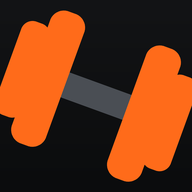
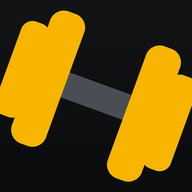
Beenden-Fix, aktiver Plan auf Start, Pläne-Detailansicht, Gold-Akzent
- Workout beenden/verwerfen funktioniert jetzt überall: native confirm()-Dialoge
  werden in Sandbox-iframes still blockiert und sind durch einen eigenen
  In-App-Bestätigungsdialog (appConfirm) ersetzt – betrifft Beenden, Verwerfen,
  Löschen von Plänen/Übungen/Workouts, Import und Daten-Reset
- Start-Tab zeigt nur noch den aktiven Plan plus 'Leeres Workout starten';
  bei mehreren Plänen gibt es einen Plan-Wechsler
- Pläne-Tab ist jetzt eine kompakte Liste; ein Tipp öffnet die Detailansicht
  mit allen Trainings (starten, bearbeiten, als aktiv setzen)
- Akzentfarbe von Safety-Orange auf Caution-Gold gewechselt, Icons neu generiert
- Service-Worker-Cache auf v3

Claude-Session: https://claude.ai/code/session_01BAzvXC5mM4khbWr549xUPR

diff --git a/js/app.js b/js/app.js
@@ -102,6 +102,7 @@ function defaultDB() {
     customExercises: [],
     plans: [],
     workouts: [],
+    activePlanId: null,
     seeded: false,
   };
 }
@@ -160,6 +161,10 @@ const exType = (id) => exById(id) ? exById(id).type : "weight_reps";
 
 // Sortierte Workouts (neueste zuerst)
 const workoutsDesc = () => DB.workouts.slice().sort((a, b) => b.startedAt - a.startedAt);
+
+// Der Plan, nach dem aktuell trainiert wird
+const activePlan = () =>
+  DB.plans.find((p) => p.id === DB.activePlanId) || DB.plans[0] || null;
 
 // Sätze des letzten Workouts mit dieser Übung
 function prevSetsFor(exId, excludeId) {
@@ -229,6 +234,33 @@ function toast(msg) {
   toastTimer = setTimeout(() => el.remove(), 2200);
 }
 
+/* ═══════════════ In-App-Bestätigung ═══════════════
+   Native confirm() ist in eingebetteten Umgebungen (Sandbox-iframe)
+   blockiert und gibt dort still false zurück – deshalb ein eigener Dialog. */
+
+function appConfirm(msg, opts = {}) {
+  return new Promise((resolve) => {
+    const bd = document.createElement("div");
+    bd.className = "backdrop";
+    bd.innerHTML = `
+      <div class="sheet" role="alertdialog" aria-label="Bestätigung">
+        <div class="sheet-grip"></div>
+        <p style="font-size:15px;font-weight:600;margin:4px 2px 18px">${esc(msg)}</p>
+        <div style="display:flex;gap:10px">
+          <button class="btn btn-ghost" data-c="0" style="flex:1">Abbrechen</button>
+          <button class="btn ${opts.danger ? "btn-danger-soft" : ""}" data-c="1" style="flex:1">${esc(opts.ok || "OK")}</button>
+        </div>
+      </div>`;
+    const done = (v) => { bd.remove(); resolve(v); };
+    bd.addEventListener("click", (e) => {
+      const b = e.target.closest("[data-c]");
+      if (b) done(b.dataset.c === "1");
+      else if (e.target === bd) done(false);
+    });
+    document.body.appendChild(bd);
+  });
+}
+
 /* ═══════════════ Sheets & Overlays ═══════════════ */
 
 function openSheet(html) {
@@ -277,6 +309,7 @@ function renderTabbar() {
 function renderHome() {
   const today = new Date().toLocaleDateString("de-DE", { weekday: "long", day: "numeric", month: "long" });
   const recent = workoutsDesc().slice(0, 3);
+  const ap = activePlan();
   $("#screen-home").innerHTML = `
     <div class="screen-head">
       <div>
@@ -286,11 +319,38 @@ function renderHome() {
       <button class="icon-btn" data-action="open-settings" aria-label="Einstellungen">${icon("gear")}</button>
     </div>
     <button class="btn" data-action="start-empty">${icon("plus")} Leeres Workout starten</button>
-    <div class="section-label" style="margin-top:24px">Meine Pläne</div>
-    ${DB.plans.length ? DB.plans.map(planCard).join("") : `<p class="hint">Noch keine Pläne – lege im Tab „Pläne" einen an.</p>`}
+    <div class="section-label" style="margin-top:24px">Aktueller Plan</div>
+    ${ap ? planCard(ap) : `<p class="hint">Noch kein Plan – lege im Tab „Pläne" einen an.</p>`}
+    ${DB.plans.length > 1 ? `<button class="btn btn-ghost" data-action="switch-plan">${icon("plans")} Plan wechseln</button>` : ""}
     ${recent.length ? `<div class="section-label">Zuletzt trainiert</div>` + recent.map(historyRow).join("") : ""}
   `;
 }
+
+ACTIONS["switch-plan"] = () => {
+  const ap = activePlan();
+  openSheet(`
+    <div class="sheet-title">Aktiven Plan wählen
+      <button class="icon-btn plain" data-action="close-sheet" aria-label="Schließen">${icon("x")}</button>
+    </div>
+    ${DB.plans.map((p) => `
+      <button class="row ${ap && ap.id === p.id ? "picked" : ""}" data-action="set-active-plan" data-id="${p.id}">
+        <span class="pick-check">${icon("check")}</span>
+        <span class="row-main">
+          <span class="row-title">${esc(p.name)}</span>
+          <span class="row-sub">${p.workouts.length} Trainings</span>
+        </span>
+      </button>`).join("")}
+  `);
+};
+
+ACTIONS["set-active-plan"] = (el) => {
+  DB.activePlanId = el.dataset.id;
+  saveDB();
+  el.closest(".backdrop")?.remove();
+  render();
+  renderPlanDetail();
+  toast("Aktueller Plan gesetzt");
+};
 
 function planCard(p) {
   return `
@@ -316,12 +376,24 @@ function planCard(p) {
 /* ═══════════════ Pläne-Tab ═══════════════ */
 
 function renderPlans() {
+  const ap = activePlan();
   $("#screen-plans").innerHTML = `
     <div class="screen-head">
       <div class="screen-title">Pläne</div>
       <button class="icon-btn" data-action="new-plan" aria-label="Neuer Plan">${icon("plus")}</button>
     </div>
-    ${DB.plans.length ? DB.plans.map(planCard).join("") : `
+    ${DB.plans.length ? DB.plans.map((p) => {
+      const nEx = p.workouts.reduce((a, w) => a + w.exercises.length, 0);
+      return `
+      <button class="row" data-action="open-plan" data-id="${p.id}">
+        <span class="row-main">
+          <span class="row-title">${esc(p.name)}</span>
+          <span class="row-sub">${p.workouts.length} Trainings · ${nEx} Übungen</span>
+        </span>
+        ${ap && ap.id === p.id ? `<span class="badge badge-accent">Aktiv</span>` : ""}
+        <span class="chev">${icon("chevR")}</span>
+      </button>`;
+    }).join("") : `
       <div class="empty">${icon("plans")}
         <h3>Noch keine Pläne</h3>
         <p>Ein Plan bündelt mehrere Trainings – z. B. Push, Pull und Beine.</p>
@@ -329,6 +401,54 @@ function renderPlans() {
     <button class="btn btn-ghost" data-action="new-plan" style="margin-top:8px">${icon("plus")} Neuen Plan erstellen</button>
   `;
 }
+
+/* Plan-Detail: Trainings ansehen, starten, bearbeiten */
+
+ACTIONS["open-plan"] = (el) => openPlanDetail(el.dataset.id);
+
+function openPlanDetail(planId) {
+  $(".plan-detail-ov")?.remove();
+  const ov = openOverlay("", "plan-detail-ov");
+  ov.dataset.planId = planId;
+  renderPlanDetail(ov);
+}
+
+function renderPlanDetail(ov) {
+  ov = ov || $(".plan-detail-ov");
+  if (!ov) return;
+  const p = DB.plans.find((x) => x.id === ov.dataset.planId);
+  if (!p) { ov.remove(); return; }
+  const isActive = activePlan()?.id === p.id;
+  $(".overlay-inner", ov).innerHTML = `
+    <div class="overlay-head">
+      <button class="icon-btn plain" data-action="close-overlay" aria-label="Zurück">${icon("chevL")}</button>
+      <div class="screen-title">${esc(p.name)}</div>
+      <button class="icon-btn" data-action="edit-plan" data-id="${p.id}" aria-label="Plan bearbeiten">${icon("edit")}</button>
+    </div>
+    ${isActive
+      ? `<span class="badge badge-accent" style="margin-bottom:14px">${icon("check")} Aktiver Plan</span>`
+      : `<button class="btn btn-soft" data-action="set-active-plan" data-id="${p.id}" style="margin-bottom:14px">Als aktiven Plan setzen</button>`}
+    <div class="section-label">Trainings</div>
+    ${p.workouts.length ? p.workouts.map((w, i) => {
+      const names = w.exercises.slice(0, 3).map((e) => exName(e.exerciseId)).join(", ");
+      return `
+      <div class="row" style="cursor:default">
+        <div class="row-main" data-action="edit-plan-wo-direct" data-plan="${p.id}" data-i="${i}" style="cursor:pointer">
+          <div class="row-title">${esc(w.name)}</div>
+          <div class="row-sub">${w.exercises.length} Übungen${names ? " · " + esc(names) : ""}</div>
+        </div>
+        <button class="btn btn-compact" data-action="start-plan" data-plan="${p.id}" data-wo="${w.id}">Start</button>
+      </div>`;
+    }).join("") : `<p class="hint" style="padding:4px 0 10px">Noch keine Trainings – tippe oben auf den Stift, um welche anzulegen.</p>`}
+    <p class="hint" style="margin-top:10px">Tippe auf ein Training, um Übungen und Sätze zu bearbeiten.</p>
+  `;
+}
+
+// Öffnet den Editor direkt auf Ebene 2 (ein bestimmtes Training)
+ACTIONS["edit-plan-wo-direct"] = (el) => {
+  openPlanEditor(el.dataset.plan);
+  openPlanWoEditor(+el.dataset.i);
+};
 
 /* Plan-Editor – Ebene 1: der Plan mit seinen Trainings */
 
@@ -384,10 +504,10 @@ ACTIONS["plan-wo-up"] = (el) => {
     renderPlanEditor();
   }
 };
-ACTIONS["plan-wo-del"] = (el) => {
+ACTIONS["plan-wo-del"] = async (el) => {
   const i = +el.dataset.i;
   const w = draftPlan.workouts[i];
-  if (w.exercises.length && !confirm(`Training „${w.name}" aus dem Plan entfernen?`)) return;
+  if (w.exercises.length && !(await appConfirm(`Training „${w.name || "Training " + (i + 1)}" aus dem Plan entfernen?`, { ok: "Entfernen", danger: true }))) return;
   draftPlan.workouts.splice(i, 1);
   renderPlanEditor();
 };
@@ -407,12 +527,14 @@ ACTIONS["save-plan"] = () => {
   $(".plan-editor-ov")?.remove();
   toast("Plan gespeichert");
   render();
+  renderPlanDetail();
 };
-ACTIONS["delete-plan"] = () => {
-  if (!confirm(`Plan „${draftPlan.name}" wirklich löschen?`)) return;
+ACTIONS["delete-plan"] = async () => {
+  if (!(await appConfirm(`Plan „${draftPlan.name}" wirklich löschen?`, { ok: "Löschen", danger: true }))) return;
   DB.plans = DB.plans.filter((p) => p.id !== draftPlan.id);
   saveDB();
   $(".plan-editor-ov")?.remove();
+  $(".plan-detail-ov")?.remove();
   toast("Plan gelöscht");
   render();
 };
@@ -581,10 +703,10 @@ ACTIONS["save-exercise"] = (el) => {
   if ($(".picker-ov")) renderPickerList();
 };
 
-ACTIONS["delete-exercise"] = (el) => {
+ACTIONS["delete-exercise"] = async (el) => {
   const ex = DB.customExercises.find((e) => e.id === el.dataset.id);
   if (!ex) return;
-  if (!confirm(`„${ex.name}" löschen? Bereits getrackte Workouts bleiben erhalten.`)) return;
+  if (!(await appConfirm(`„${ex.name}" löschen? Bereits getrackte Workouts bleiben erhalten.`, { ok: "Löschen", danger: true }))) return;
   DB.customExercises = DB.customExercises.filter((e) => e.id !== ex.id);
   saveDB();
   $(".ex-detail-ov")?.remove();
@@ -868,10 +990,11 @@ ACTIONS["wo-add-ex"] = () => {
     updateWoMeta();
   });
 };
-ACTIONS["wo-del-ex"] = (el) => {
-  const ex = active.exercises[+el.dataset.xi];
-  if (ex.sets.some((s) => s.done) && !confirm(`„${exName(ex.exerciseId)}" mit abgehakten Sätzen entfernen?`)) return;
-  active.exercises.splice(+el.dataset.xi, 1);
+ACTIONS["wo-del-ex"] = async (el) => {
+  const xi = +el.dataset.xi;
+  const ex = active.exercises[xi];
+  if (ex.sets.some((s) => s.done) && !(await appConfirm(`„${exName(ex.exerciseId)}" mit abgehakten Sätzen entfernen?`, { ok: "Entfernen", danger: true }))) return;
+  active.exercises.splice(xi, 1);
   saveActive();
   renderWoExercises();
   updateWoMeta();
@@ -937,8 +1060,8 @@ ACTIONS["minimize-workout"] = () => {
   render();
 };
 
-ACTIONS["discard-workout"] = () => {
-  if (!confirm("Workout wirklich verwerfen? Alle Eingaben gehen verloren.")) return;
+ACTIONS["discard-workout"] = async () => {
+  if (!(await appConfirm("Workout wirklich verwerfen? Alle Eingaben gehen verloren.", { ok: "Verwerfen", danger: true }))) return;
   active = null;
   saveActive();
   stopRest();
@@ -947,7 +1070,7 @@ ACTIONS["discard-workout"] = () => {
   toast("Workout verworfen");
 };
 
-ACTIONS["finish-workout"] = () => {
+ACTIONS["finish-workout"] = async () => {
   if (!active) return;
   const finished = {
     id: active.id,
@@ -966,13 +1089,14 @@ ACTIONS["finish-workout"] = () => {
     if (done.length) finished.exercises.push({ exerciseId: ex.exerciseId, sets: done });
   }
   if (!finished.exercises.length) {
-    if (confirm("Keine abgehakten Sätze. Workout verwerfen?")) {
+    if (await appConfirm("Keine abgehakten Sätze. Workout verwerfen?", { ok: "Verwerfen", danger: true })) {
       active = null; saveActive(); stopRest();
       $(".workout-ov")?.remove(); render();
     }
     return;
   }
-  if (undone > 0 && !confirm(`${undone} nicht abgehakte${undone === 1 ? "r Satz wird" : " Sätze werden"} verworfen. Workout beenden?`)) return;
+  if (undone > 0 && !(await appConfirm(`${undone} nicht abgehakte${undone === 1 ? "r Satz wird" : " Sätze werden"} verworfen. Workout beenden?`, { ok: "Beenden" }))) return;
+  if (!active) return;
 
   // Rekorde ermitteln (vor dem Speichern, gegen die bisherige Historie)
   const prs = [];
@@ -1219,8 +1343,8 @@ ACTIONS["repeat-workout"] = (el) => {
   openWorkoutScreen();
 };
 
-ACTIONS["delete-workout"] = (el) => {
-  if (!confirm("Workout endgültig löschen?")) return;
+ACTIONS["delete-workout"] = async (el) => {
+  if (!(await appConfirm("Workout endgültig löschen?", { ok: "Löschen", danger: true }))) return;
   DB.workouts = DB.workouts.filter((w) => w.id !== el.dataset.id);
   saveDB();
   $(".wo-detail-ov")?.remove();
@@ -1418,12 +1542,18 @@ ACTIONS["import-data"] = () => {
     const f = inp.files && inp.files[0];
     if (!f) return;
     const rd = new FileReader();
-    rd.onload = () => {
+    rd.onload = async () => {
       try {
         const data = JSON.parse(rd.result);
         if (!Array.isArray(data.workouts) || !Array.isArray(data.plans)) throw new Error("Format");
-        if (!confirm(`Backup mit ${data.workouts.length} Workouts und ${data.plans.length} Plänen importieren? Aktuelle Daten werden ersetzt.`)) return;
+        if (!(await appConfirm(`Backup mit ${data.workouts.length} Workouts und ${data.plans.length} Plänen importieren? Aktuelle Daten werden ersetzt.`, { ok: "Importieren" }))) return;
         DB = Object.assign(defaultDB(), data, { seeded: true });
+        // Alte Backups (v1) auf die aktuelle Plan-Struktur heben
+        DB.plans = (DB.plans || []).map((p) =>
+          p.workouts ? p : {
+            id: p.id, name: p.name, createdAt: p.createdAt || Date.now(),
+            workouts: [{ id: uid(), name: p.name, exercises: p.exercises || [] }],
+          });
         saveDB();
         $$(".backdrop").forEach((b) => b.remove());
         render();
@@ -1437,9 +1567,9 @@ ACTIONS["import-data"] = () => {
   inp.click();
 };
 
-ACTIONS["wipe-data"] = () => {
-  if (!confirm("Wirklich ALLE Workouts, Pläne und Übungen löschen?")) return;
-  if (!confirm("Ganz sicher? Das kann nicht rückgängig gemacht werden.")) return;
+ACTIONS["wipe-data"] = async () => {
+  if (!(await appConfirm("Wirklich ALLE Workouts, Pläne und Übungen löschen?", { ok: "Löschen", danger: true }))) return;
+  if (!(await appConfirm("Ganz sicher? Das kann nicht rückgängig gemacht werden.", { ok: "Endgültig löschen", danger: true }))) return;
   localStorage.removeItem(LS_DB);
   localStorage.removeItem(LS_ACTIVE);
   DB = loadDB();

diff --git a/css/style.css b/css/style.css
@@ -1,7 +1,7 @@
 /* ═══════════════════════════════════════════════════════════
    Eisenzeit – Trainingslog
    Industrial. Dunkel. Eine Akzentfarbe.
-   Asphalt-Schwarz, Stahl-Kanten, Safety-Orange – Gym-Keller,
+   Asphalt-Schwarz, Stahl-Kanten, Caution-Gold – Gym-Keller,
    nicht Boutique-Studio. Bewusst nur ein (dunkles) Theme.
    ═══════════════════════════════════════════════════════════ */
 
@@ -18,10 +18,10 @@
   --ink: #ececea;
   --ink-2: #9a9ea3;
   --ink-3: #63676c;
-  /* DIE Akzentfarbe: Safety-Orange */
-  --accent: #ff6b1a;
+  /* DIE Akzentfarbe: Caution-Gold */
+  --accent: #f7b500;
   --accent-ink: #0b0c0d;
-  --accent-soft: rgba(255, 107, 26, 0.13);
+  --accent-soft: rgba(247, 181, 0, 0.13);
   /* Funktional (nur destruktiv, kein zweiter Akzent) */
   --danger: #e5484d;
   --danger-soft: rgba(229, 72, 77, 0.12);
@@ -208,7 +208,7 @@ button { cursor: pointer; background: none; border: none; }
   color: var(--ink);
   border: 1px solid var(--border-strong);
 }
-.btn-soft { background: var(--accent-soft); color: var(--accent); border: 1px solid rgba(255, 107, 26, 0.25); }
+.btn-soft { background: var(--accent-soft); color: var(--accent); border: 1px solid rgba(247, 181, 0, 0.28); }
 .btn-danger-soft { background: var(--danger-soft); color: var(--danger); border: 1px solid rgba(229, 72, 77, 0.25); }
 .btn-good { background: var(--accent); color: var(--accent-ink); }
 .btn-compact { width: auto; padding: 9px 14px; font-size: 13px; }
@@ -814,7 +814,7 @@ button.row:active { background: var(--surface-2); }
   letter-spacing: 0.04em;
 }
 .badge svg { width: 13px; height: 13px; }
-.badge-gold { background: var(--accent-soft); color: var(--accent); border: 1px solid rgba(255, 107, 26, 0.3); }
+.badge-gold { background: var(--accent-soft); color: var(--accent); border: 1px solid rgba(247, 181, 0, 0.3); }
 .badge-accent { background: var(--accent-soft); color: var(--accent); }
 .badge-muted { background: var(--surface-2); color: var(--ink-2); border: 1px solid var(--border); }
 

diff --git a/sw.js b/sw.js
@@ -1,5 +1,5 @@
 // Eisenzeit Service Worker – App-Shell offline verfügbar halten
-const CACHE = "eisenzeit-v2";
+const CACHE = "eisenzeit-v3";
 const ASSETS = [
   "./",
   "index.html",

diff --git a/README.md b/README.md
@@ -6,14 +6,14 @@ Eine Progressive Web App (PWA) fürs Fitnessstudio – inspiriert von Hevy und M
 
 - **Übungsbibliothek** mit 135 vordefinierten Übungen (nach Muskelgruppe und Gerät filterbar, Suche versteht auch englische Begriffe wie „bench press")
 - **Eigene Übungen** anlegen (Gewicht × Wdh., nur Wiederholungen oder Zeit)
-- **Trainingspläne mit mehreren Trainings**: Ein Plan bündelt z. B. Push, Pull und Beine als einzelne Trainings, jedes mit einem Tipp startbar (ein Beispielplan „Push / Pull / Beine" ist vorinstalliert)
+- **Trainingspläne mit mehreren Trainings**: Ein Plan bündelt z. B. Push, Pull und Beine als einzelne Trainings, jedes mit einem Tipp startbar; der Start-Tab zeigt nur den aktiven Plan (ein Beispielplan „Push / Pull / Beine" ist vorinstalliert)
 - **Workout-Tracking** wie in Hevy: Sätze abhaken, Gewicht & Wiederholungen eintragen, Werte vom letzten Mal als Vorlage, laufende Dauer und Live-Volumen
 - **Pausen-Timer** startet automatisch nach jedem abgehakten Satz (Dauer einstellbar, mit Ton + Vibration)
 - **Rekord-Erkennung**: Neue Bestleistungen werden beim Beenden gefeiert
 - **Verlauf & Statistik** mit umschaltbarer Sicht: Woche, Quartal, Jahr und Gesamt – Kennzahlen, Volumen-Chart (Tage/Wochen/Monate/Jahre) und Workout-Liste passen sich an; dazu Entwicklungskurve pro Übung
 - **Workout wiederholen**, minimieren und später fortsetzen (übersteht auch ein versehentliches Schließen der App)
 - **Backup**: Export/Import aller Daten als JSON-Datei
-- **Industrial-Design**: bewusst dunkel gehalten – Asphalt-Schwarz, Stahl-Kanten, Safety-Orange als einzige Akzentfarbe
+- **Industrial-Design**: bewusst dunkel gehalten – Asphalt-Schwarz, Stahl-Kanten, Caution-Gold als einzige Akzentfarbe
 
 ## Auf dem Handy installieren
 
